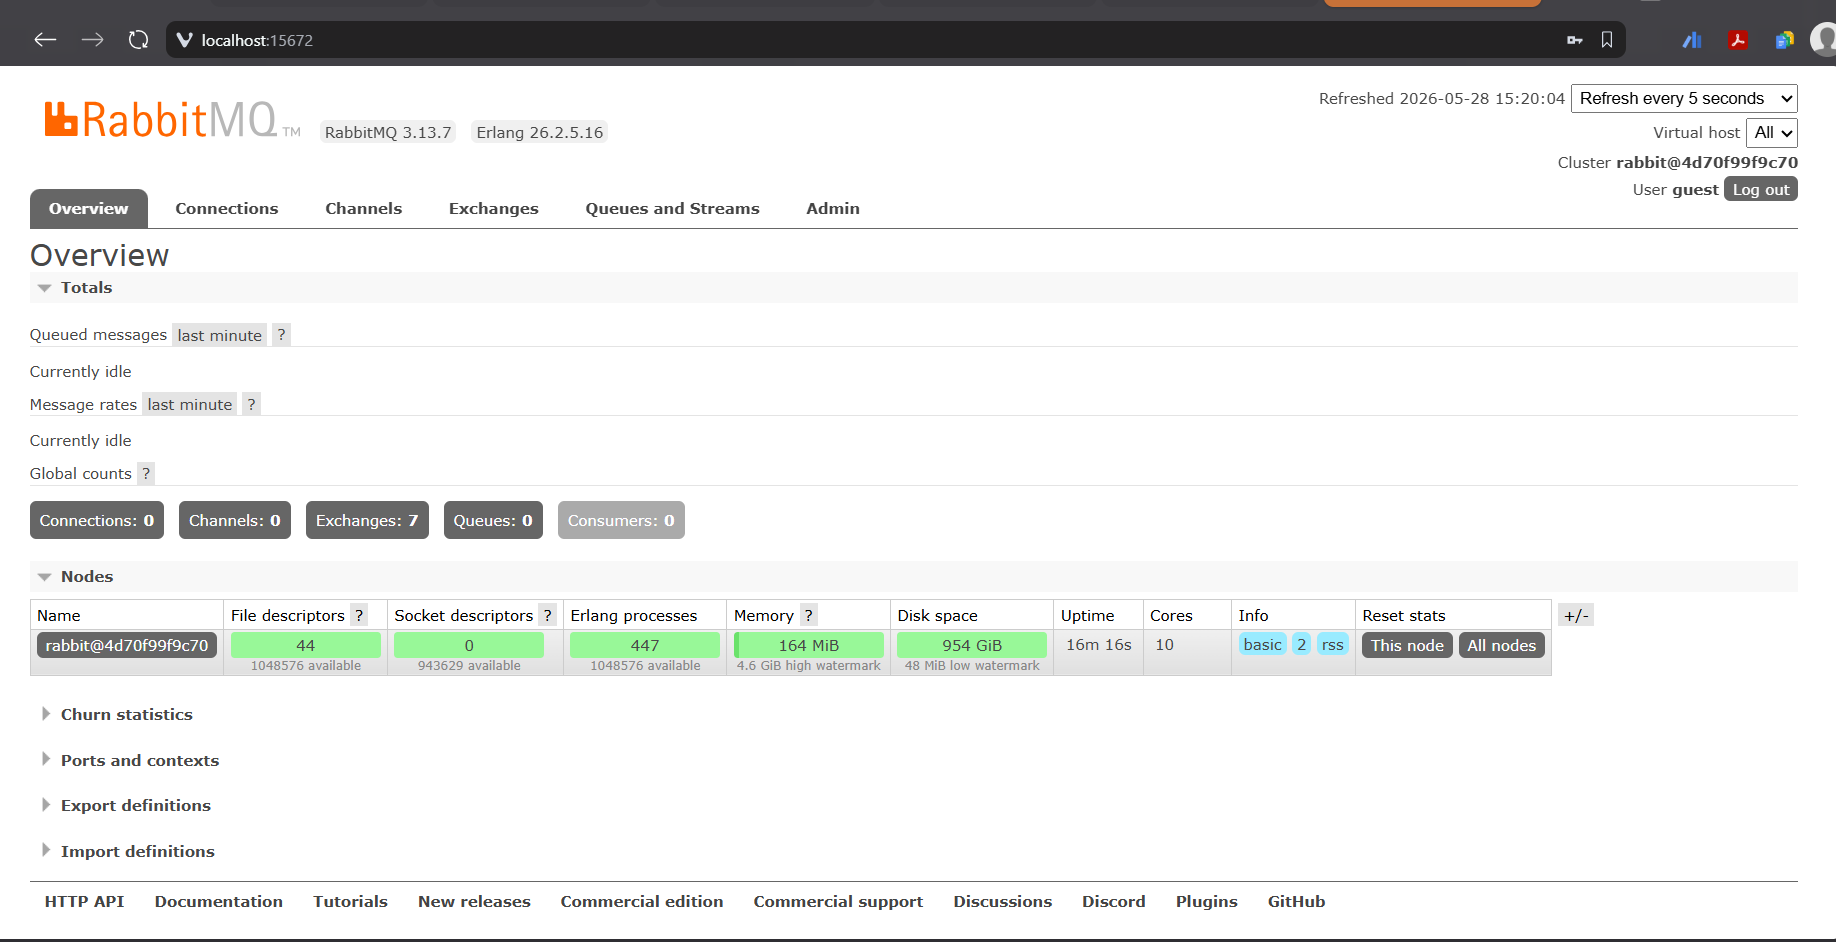
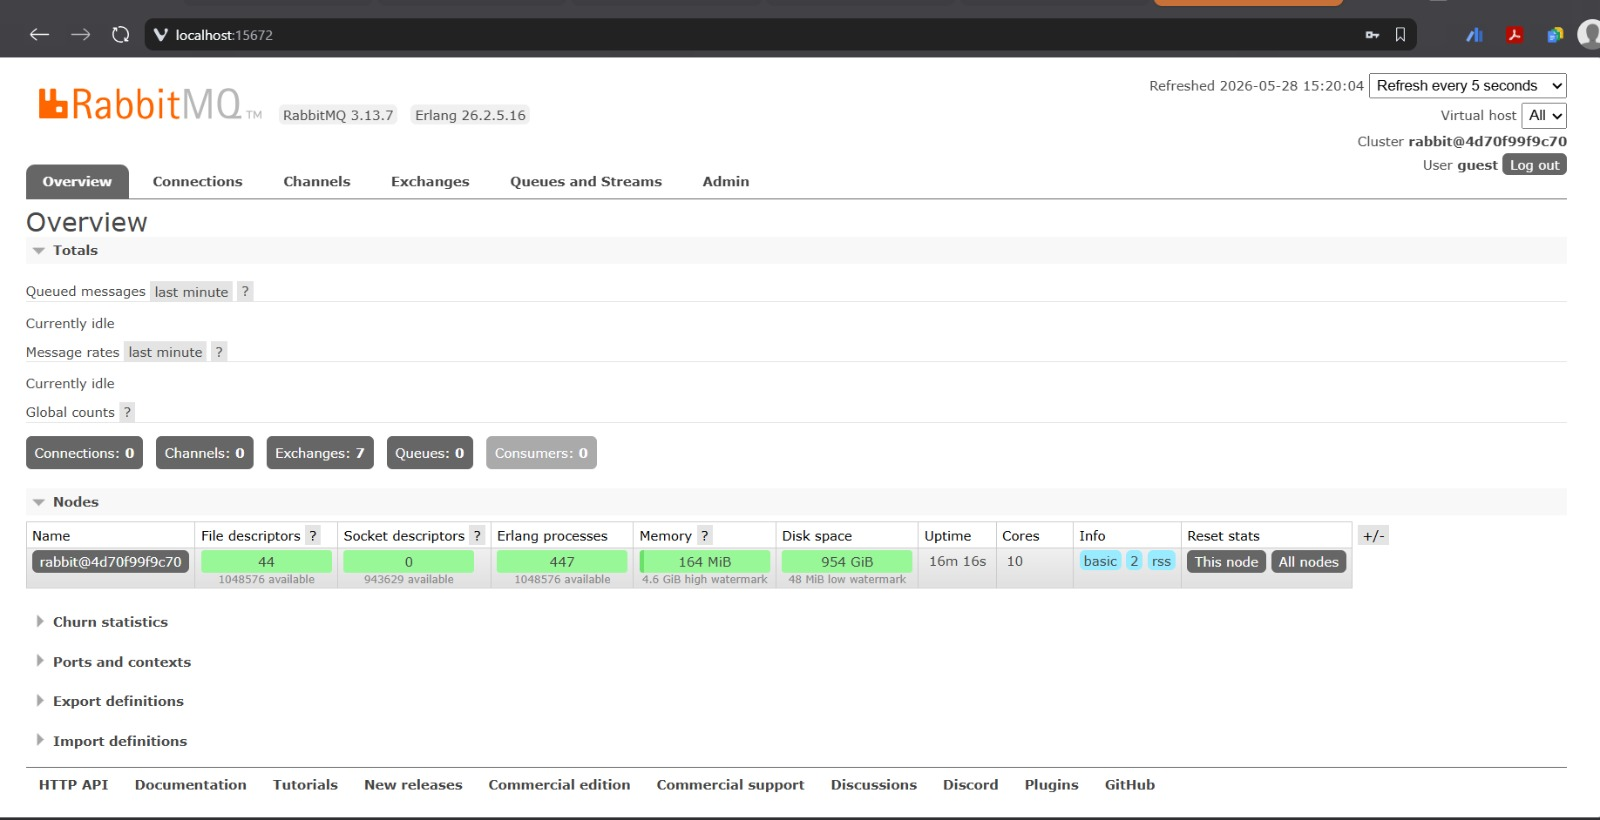
adicionar as evidencias

diff --git a/README.md b/README.md
@@ -16,15 +16,15 @@ Stack: Spring Boot 3 / Java 21, Spring Cloud (Eureka + OpenFeign), gRPC, RabbitM
 
 ## 1. Microsserviços
 
-| Serviço | Papel | Banco |
-|---------|-------|-------|
-| **Eureka Server** | Serviço de nomes / Service Discovery (registra e localiza os demais serviços) | - |
-| **Aluno Service** | CRUD de alunos; expõe consultas de existência/estado (ATIVO) | H2 `alunodb` |
-| **Disciplina Service** | CRUD de disciplinas | H2 `disciplinadb` |
-| **Turma Service** | CRUD de turmas e controle de **vagas**; expõe o **servidor gRPC** | H2 `turmadb` |
-| **Matrícula Service** | Orquestra a matrícula (cliente gRPC + Feign + produtor de eventos) | H2 `matriculadb` |
-| **Notificação Service** | Consome filas/eventos e registra notificações | H2 `notificacaodb` |
-| **Histórico Service** | Consome eventos e registra o histórico acadêmico | H2 `historicodb` |
+| Serviço                 | Papel                                                                         | Banco              |
+| ----------------------- | ----------------------------------------------------------------------------- | ------------------ |
+| **Eureka Server**       | Serviço de nomes / Service Discovery (registra e localiza os demais serviços) | -                  |
+| **Aluno Service**       | CRUD de alunos; expõe consultas de existência/estado (ATIVO)                  | H2 `alunodb`       |
+| **Disciplina Service**  | CRUD de disciplinas                                                           | H2 `disciplinadb`  |
+| **Turma Service**       | CRUD de turmas e controle de **vagas**; expõe o **servidor gRPC**             | H2 `turmadb`       |
+| **Matrícula Service**   | Orquestra a matrícula (cliente gRPC + Feign + produtor de eventos)            | H2 `matriculadb`   |
+| **Notificação Service** | Consome filas/eventos e registra notificações                                 | H2 `notificacaodb` |
+| **Histórico Service**   | Consome eventos e registra o histórico acadêmico                              | H2 `historicodb`   |
 
 Cada microsserviço possui seu próprio repositório. Este repositório (`sd_academico_docs`) contém a documentação central, evidências, relatório, slides e o `docker-compose.yml` que sobe todo o ambiente.
 
@@ -59,7 +59,7 @@ public class TurmaGrpcServiceImpl extends TurmaGrpcServiceGrpc.TurmaGrpcServiceI
 }
 ```
 
-**Cliente gRPC, Matrícula Service** (`GrpcClientConfiguration` cria o *stub* síncrono / *blocking stub*):
+**Cliente gRPC, Matrícula Service** (`GrpcClientConfiguration` cria o _stub_ síncrono / _blocking stub_):
 
 ```java
 @Bean
@@ -68,7 +68,7 @@ TurmaGrpcServiceGrpc.TurmaGrpcServiceBlockingStub turmaGrpcStub(GrpcChannelFacto
 }
 ```
 
-O Matrícula Service chama o *stub* como se fosse um método local (transparência de acesso). Ao criar uma matrícula ele **reserva** a vaga; ao cancelar, **libera** a vaga:
+O Matrícula Service chama o _stub_ como se fosse um método local (transparência de acesso). Ao criar uma matrícula ele **reserva** a vaga; ao cancelar, **libera** a vaga:
 
 ```java
 ReservaVagaResponse reserva = turmaGrpcStub.reservarVaga(
@@ -97,10 +97,10 @@ rabbitTemplate.convertAndSend(
 
 **Dois assinantes**, cada um com **sua própria fila** ligada (binding) ao mesmo exchange, recebem **cópias independentes** do evento (fan-out por routing key):
 
-| Serviço | Fila | Binding (routing keys) |
-|---------|------|------------------------|
+| Serviço             | Fila                       | Binding (routing keys)                    |
+| ------------------- | -------------------------- | ----------------------------------------- |
 | Notificação Service | `queue.evento.notificacao` | `matricula.criada`, `matricula.cancelada` |
-| Histórico Service | `queue.evento.historico` | `matricula.criada`, `matricula.cancelada` |
+| Histórico Service   | `queue.evento.historico`   | `matricula.criada`, `matricula.cancelada` |
 
 ```java
 // Consumidor: Histórico Service
@@ -182,60 +182,115 @@ O **cancelamento** é simétrico: `LiberarVaga` via gRPC mais o evento `matricul
 
 ### 3.2. Principais conceitos aplicados
 
-- **Arquitetura de microsserviços** com banco isolado por serviço (*database per service*), garantindo autonomia e baixo acoplamento.
+- **Arquitetura de microsserviços** com banco isolado por serviço (_database per service_), garantindo autonomia e baixo acoplamento.
 - **Comunicação síncrona x assíncrona**: gRPC/REST (síncrona, requer resposta imediata) vs RabbitMQ (assíncrona, desacoplada no tempo).
-- **RPC com IDL**: contrato `.proto` (Protocol Buffers) gerando *stubs* cliente/servidor.
+- **RPC com IDL**: contrato `.proto` (Protocol Buffers) gerando _stubs_ cliente/servidor.
 - **Mensageria**: Exchange/Queue/Binding, Topic Exchange, routing keys, Pub/Sub e Work Queue.
 - **Service Discovery / serviço de nomes**: registro e resolução por nome lógico (Eureka) + balanceamento client-side (Feign).
-- **Tolerância a falhas**: tratamento de indisponibilidade (`*ServiceIndisponivelException`), publicação *best-effort* e **compensação (saga)** para manter a consistência sem transação distribuída.
+- **Tolerância a falhas**: tratamento de indisponibilidade (`*ServiceIndisponivelException`), publicação _best-effort_ e **compensação (saga)** para manter a consistência sem transação distribuída.
 
 ### 3.3. Mapeamento entre código e teoria
 
-| Conceito (teoria de sala) | Onde está no código |
-|---------------------------|---------------------|
-| Invocação remota (RPC) | `turma.proto`; `GrpcClientConfiguration` (stub cliente); `TurmaGrpcServiceImpl` (servidor) |
-| IDL / serialização binária | `turma.proto` (Protocol Buffers) gera as classes `*Request`/`*Response`/`*Grpc` |
-| Chamada síncrona | `turmaGrpcStub.reservarVaga(...)` em `MatriculaService` |
-| Comunicação por REST remota | `AlunoClient`, `DisciplinaClient` (OpenFeign) |
-| Serviço de nomes / discovery | `@EnableEurekaServer`; `eureka.client.*` nos `application.properties`; `@FeignClient(name=...)` |
-| Transparência de localização | resolução por `spring.application.name` (Feign) e canal `"turma-service"` (gRPC) |
-| Mensageria (produtor) | `rabbitTemplate.convertAndSend("academico.events", ...)` em `MatriculaService` |
-| Mensageria, Pub/Sub (Topic Exchange) | `RabbitMQConfig` de Notificação/Histórico (Exchange + Queue + Binding) |
-| Mensageria (consumidor assíncrono) | `@RabbitListener` em `EventoNotificacaoListener`, `EventoHistoricoListener` |
-| Fila de trabalho (point-to-point) | `fila.notificacoes` + `NotificacaoListener` |
-| Tolerância a falhas / saga | `compensarLiberandoVaga` / `compensarReservandoVaga`; publicação *best-effort* |
+| Conceito (teoria de sala)            | Onde está no código                                                                             |
+| ------------------------------------ | ----------------------------------------------------------------------------------------------- |
+| Invocação remota (RPC)               | `turma.proto`; `GrpcClientConfiguration` (stub cliente); `TurmaGrpcServiceImpl` (servidor)      |
+| IDL / serialização binária           | `turma.proto` (Protocol Buffers) gera as classes `*Request`/`*Response`/`*Grpc`                 |
+| Chamada síncrona                     | `turmaGrpcStub.reservarVaga(...)` em `MatriculaService`                                         |
+| Comunicação por REST remota          | `AlunoClient`, `DisciplinaClient` (OpenFeign)                                                   |
+| Serviço de nomes / discovery         | `@EnableEurekaServer`; `eureka.client.*` nos `application.properties`; `@FeignClient(name=...)` |
+| Transparência de localização         | resolução por `spring.application.name` (Feign) e canal `"turma-service"` (gRPC)                |
+| Mensageria (produtor)                | `rabbitTemplate.convertAndSend("academico.events", ...)` em `MatriculaService`                  |
+| Mensageria, Pub/Sub (Topic Exchange) | `RabbitMQConfig` de Notificação/Histórico (Exchange + Queue + Binding)                          |
+| Mensageria (consumidor assíncrono)   | `@RabbitListener` em `EventoNotificacaoListener`, `EventoHistoricoListener`                     |
+| Fila de trabalho (point-to-point)    | `fila.notificacoes` + `NotificacaoListener`                                                     |
+| Tolerância a falhas / saga           | `compensarLiberandoVaga` / `compensarReservandoVaga`; publicação _best-effort_                  |
 
 ### 3.4. Transparências aplicadas
 
-| Transparência | Como é alcançada no projeto |
-|---------------|-----------------------------|
-| **Acesso** | gRPC e Feign expõem chamadas remotas como métodos/interfaces locais; o código cliente não trata serialização nem protocolo de rede explicitamente. |
-| **Localização** | Serviços são acessados por **nome lógico** (`aluno-service`, `turma-service`) resolvido pelo Eureka, sem nenhum IP/porta fixo no código de negócio. |
-| **Falhas** | Indisponibilidades viram exceções tratadas; eventos *best-effort* não derrubam o fluxo; **compensação (saga)** mantém a consistência mesmo com falha parcial. |
-| **Concorrência** | Cada serviço tem seu próprio H2; o RabbitMQ enfileira e entrega mensagens sem que produtores/consumidores coordenem acesso direto a dados compartilhados. |
-| **Replicação / escala** | O balanceamento client-side do Feign sobre o registro do Eureka permite múltiplas instâncias de um serviço sob o mesmo nome lógico. |
+| Transparência           | Como é alcançada no projeto                                                                                                                                   |
+| ----------------------- | ------------------------------------------------------------------------------------------------------------------------------------------------------------- |
+| **Acesso**              | gRPC e Feign expõem chamadas remotas como métodos/interfaces locais; o código cliente não trata serialização nem protocolo de rede explicitamente.            |
+| **Localização**         | Serviços são acessados por **nome lógico** (`aluno-service`, `turma-service`) resolvido pelo Eureka, sem nenhum IP/porta fixo no código de negócio.           |
+| **Falhas**              | Indisponibilidades viram exceções tratadas; eventos _best-effort_ não derrubam o fluxo; **compensação (saga)** mantém a consistência mesmo com falha parcial. |
+| **Concorrência**        | Cada serviço tem seu próprio H2; o RabbitMQ enfileira e entrega mensagens sem que produtores/consumidores coordenem acesso direto a dados compartilhados.     |
+| **Replicação / escala** | O balanceamento client-side do Feign sobre o registro do Eureka permite múltiplas instâncias de um serviço sob o mesmo nome lógico.                           |
 
 ---
 
 ## 4. Evidências
 
-As evidências das comunicações ficam na pasta [`evidencias/`](evidencias/):
+As evidências das comunicações ficam na pasta [`evidencias/`](evidencias/).
 
-- **Service Discovery (Eureka):** painel em `http://localhost:8761` mostrando os 7 serviços `UP` registrados.
-- **Mensageria (RabbitMQ):** painel em `http://localhost:15672` (guest/guest), ver [`evidencias/rabbitmq-management-home.png`](evidencias/rabbitmq-management-home.png), exibindo o exchange `academico.events`, as filas `queue.evento.notificacao`, `queue.evento.historico`, `fila.notificacoes` e os logs em `logs.all`.
-- **RPC (gRPC):** logs do `turma-service` (`[TURMA-SERVICE] gRPC ReservarVaga chamado...`) e do `matricula-service` ao criar/cancelar uma matrícula.
-- **Eventos (Pub/Sub):** logs `[NOTIFICACAO-SERVICE] Evento recebido` e `[HISTORICO-SERVICE] Evento registrado no histórico` após uma matrícula, comprovando que **uma** publicação chega a **dois** consumidores independentes.
+### 4.1. Ambiente no ar (Docker Compose)
+
+Todos os serviços sobem como containers a partir do `docker-compose.yml`:
+
+![Containers em execução no Docker Desktop](evidencias/docker-desktop-containers.png)
+
+### 4.2. Service Discovery (Eureka)
+
+Painel em `http://localhost:8761` mostrando os 7 serviços (`ALUNO`, `DISCIPLINA`, `GATEWAY`, `HISTORICO`, `MATRICULA`, `NOTIFICACAO`, `TURMA`) registrados e `UP`:
+
+![Instâncias registradas no Eureka](evidencias/eureka-instances-up.jpeg)
+
+### 4.3. Mensageria (RabbitMQ)
+
+Painel em `http://localhost:15672` (guest/guest) com o exchange `academico.events`, as filas `queue.evento.notificacao`, `queue.evento.historico`, `fila.notificacoes` e os logs em `logs.all`.
+
+Estado inicial (sistema ocioso, sem mensagens em trânsito — conexões e filas zeradas):
+
+![Visão geral do RabbitMQ ocioso](evidencias/rabbitmq-management-home.png)
+
+Durante o fluxo de matrícula, o overview mostra as conexões, filas e consumidores ativos:
+
+![Visão geral do RabbitMQ com conexões e filas ativas](evidencias/rabbitmq-overview.png)
+
+As 4 filas declaradas pelos serviços, todas `running` e com seus consumidores conectados — `fila.notificacoes` (work queue), `queue.evento.historico` e `queue.evento.notificacao` (Pub/Sub de eventos) e `logs.all` (Pub/Sub de logs):
+
+![Filas do RabbitMQ na aba Queues and Streams](evidencias/rabbitmq-queues.png)
+
+### 4.4. Fluxo de matrícula via Swagger (API Gateway)
+
+Criação da matrícula pela UI única do gateway (`POST http://localhost:8080/matricula/matriculas` → `201`):
+
+![POST de matrícula no Swagger retornando 201](evidencias/swagger-matricula-post.png)
+
+Consultas confirmando o efeito do fluxo — a matrícula persistida, a vaga reservada na turma (via gRPC) e o registro no histórico (via evento):
+
+![GET de matrículas no Swagger](evidencias/swagger-matricula-get.png)
+
+![GET de históricos no Swagger](evidencias/swagger-historico-get.png)
+
+**Antes e depois da reserva de vaga (gRPC):** consultando `GET /turma/turmas` antes e depois da matrícula, o campo `vagasOcupadas` da turma (id 1) sobe de **5 para 6**. Isso comprova que o `ReservarVaga` chamado por gRPC pelo Matrícula Service efetivou a reserva no Turma Service:
+
+![GET de turmas antes da matrícula: vagasOcupadas = 5](evidencias/swagger-turma-get-antes.png)
+
+![GET de turmas depois da matrícula: vagasOcupadas = 6](evidencias/swagger-turma-get-depois.png)
+
+### 4.5. RPC síncrono (gRPC): Matrícula → Turma
+
+Logs do `matricula-service` (recebe o `POST /matriculas` e publica o evento) e do `turma-service` (`[TURMA-SERVICE] gRPC ReservarVaga chamado...` reservando a vaga):
+
+![Logs do matricula-service: POST e evento publicado](evidencias/logs-matricula-service.png)
+
+![Logs do turma-service: chamada gRPC ReservarVaga](evidencias/logs-turma-grpc.png)
+
+### 4.6. Eventos (Pub/Sub): uma publicação, dois consumidores
+
+Após a matrícula, o `historico-service` registra o evento de forma assíncrona e independente (`[HISTORICO-SERVICE] Evento recebido` → `Evento registrado no histórico`), comprovando que **uma** publicação no exchange `academico.events` chega a **dois** consumidores independentes (Histórico e Notificação):
+
+![Logs do historico-service consumindo o evento](evidencias/logs-historico-service.png)
 
 **Onde cada conceito foi aplicado (resumo):**
 
-| Conceito | Serviço(s) | Porta / recurso |
-|----------|-----------|-----------------|
-| Service Discovery | Eureka Server | `8761` |
-| RPC síncrono (gRPC) | Matrícula (cliente) → Turma (servidor) | gRPC `9093` |
-| REST/Feign (via discovery) | Matrícula → Aluno; Turma → Disciplina | HTTP |
-| Pub/Sub (eventos) | Matrícula → Notificação + Histórico | exchange `academico.events` |
-| Fila direta (work queue) | Notificação | fila `fila.notificacoes` |
-| Pub/Sub de logs | Todos | exchange `logs.academico` → fila `logs.all` |
+| Conceito                   | Serviço(s)                             | Porta / recurso                             |
+| -------------------------- | -------------------------------------- | ------------------------------------------- |
+| Service Discovery          | Eureka Server                          | `8761`                                      |
+| RPC síncrono (gRPC)        | Matrícula (cliente) → Turma (servidor) | gRPC `9093`                                 |
+| REST/Feign (via discovery) | Matrícula → Aluno; Turma → Disciplina  | HTTP                                        |
+| Pub/Sub (eventos)          | Matrícula → Notificação + Histórico    | exchange `academico.events`                 |
+| Fila direta (work queue)   | Notificação                            | fila `fila.notificacoes`                    |
+| Pub/Sub de logs            | Todos                                  | exchange `logs.academico` → fila `logs.all` |
 
 > Sugestão de roteiro de demonstração: subir o ambiente (seção 5) → abrir Eureka e RabbitMQ → criar uma matrícula → observar nos logs a chamada gRPC, e em seguida os dois consumidores recebendo o evento; cancelar a matrícula e repetir.
 
@@ -277,16 +332,16 @@ A primeira execução demora alguns minutos (compila os 7 serviços); depois fic
 
 ### 5.3. Portas (no host)
 
-| Serviço             | Endereço                          |
-|---------------------|-----------------------------------|
-| Eureka (painel)     | http://localhost:8761             |
-| matricula-service   | http://localhost:8081             |
-| aluno-service       | http://localhost:8082             |
-| disciplina-service  | http://localhost:8083             |
+| Serviço             | Endereço                                   |
+| ------------------- | ------------------------------------------ |
+| Eureka (painel)     | http://localhost:8761                      |
+| matricula-service   | http://localhost:8081                      |
+| aluno-service       | http://localhost:8082                      |
+| disciplina-service  | http://localhost:8083                      |
 | turma-service       | http://localhost:8084 (HTTP) / 9093 (gRPC) |
-| notificacao-service | http://localhost:8085             |
-| historico-service   | http://localhost:8086             |
-| RabbitMQ (painel)   | http://localhost:15672 (guest/guest) |
+| notificacao-service | http://localhost:8085                      |
+| historico-service   | http://localhost:8086                      |
+| RabbitMQ (painel)   | http://localhost:15672 (guest/guest)       |
 
 > Observação: o `turma-service` usa a porta **8084** (HTTP) para não conflitar com o `disciplina-service` (8083); o servidor gRPC do turma continua na **9093**.
 
